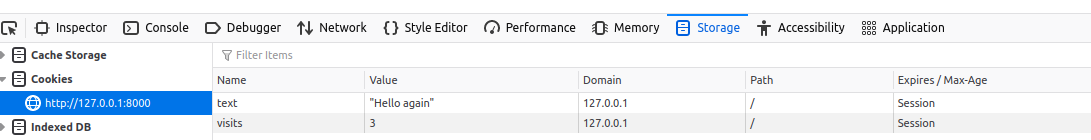
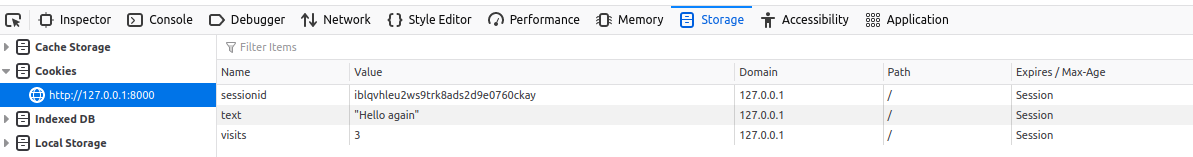
Solutions for exercise #4 - sessions and cookies in Django

diff --git a/django-framework-exercises/sessions-and-cookies/src/README.md b/django-framework-exercises/sessions-and-cookies/src/README.md
@@ -67,7 +67,7 @@
       ![ex4-13](../../../django-framework-exercises/screenshots/ex4-13.png)
 
 * add url ```create-session``` for this view in app-level ```urls.py``` and remember about importing this view earlier!
-         ![ex4-13](../../../django-framework-exercises/screenshots/ex4-13.png)
+         ![ex4-13a](../../../django-framework-exercises/screenshots/ex4-13a.png)
 
 * in browser open link ```http://127.0.0.1:8000/create-session/``` to set session data.
 
